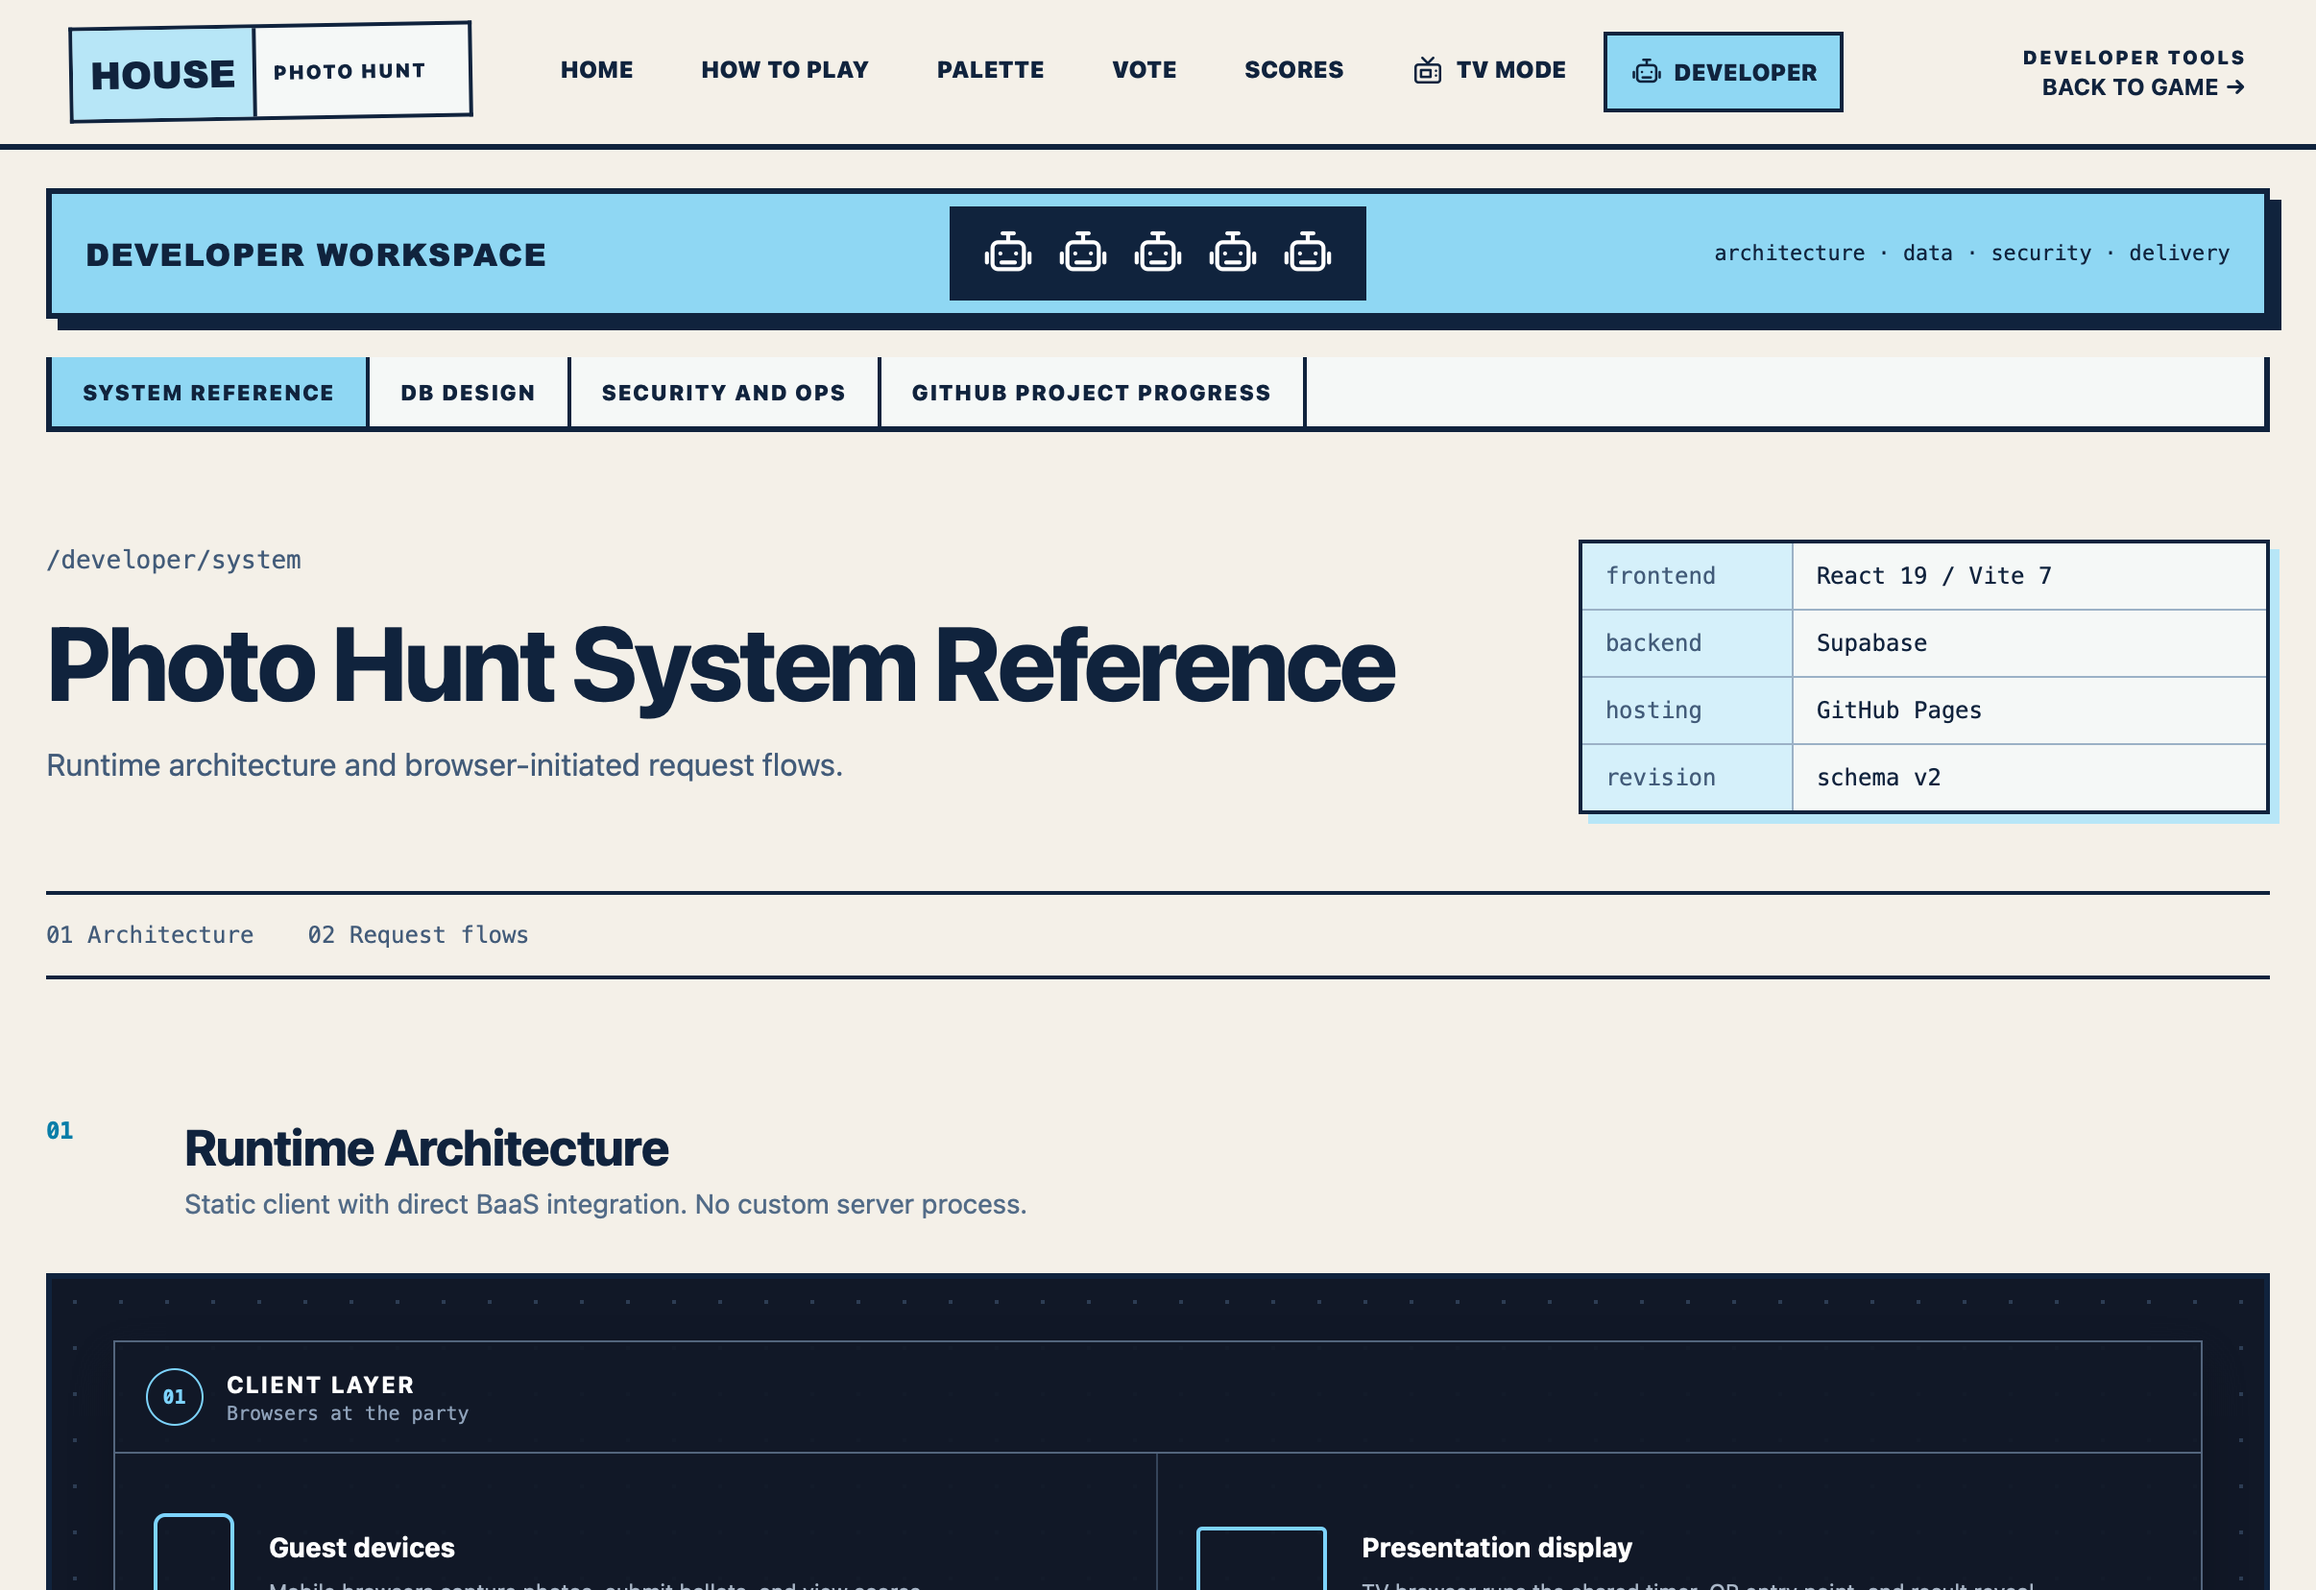
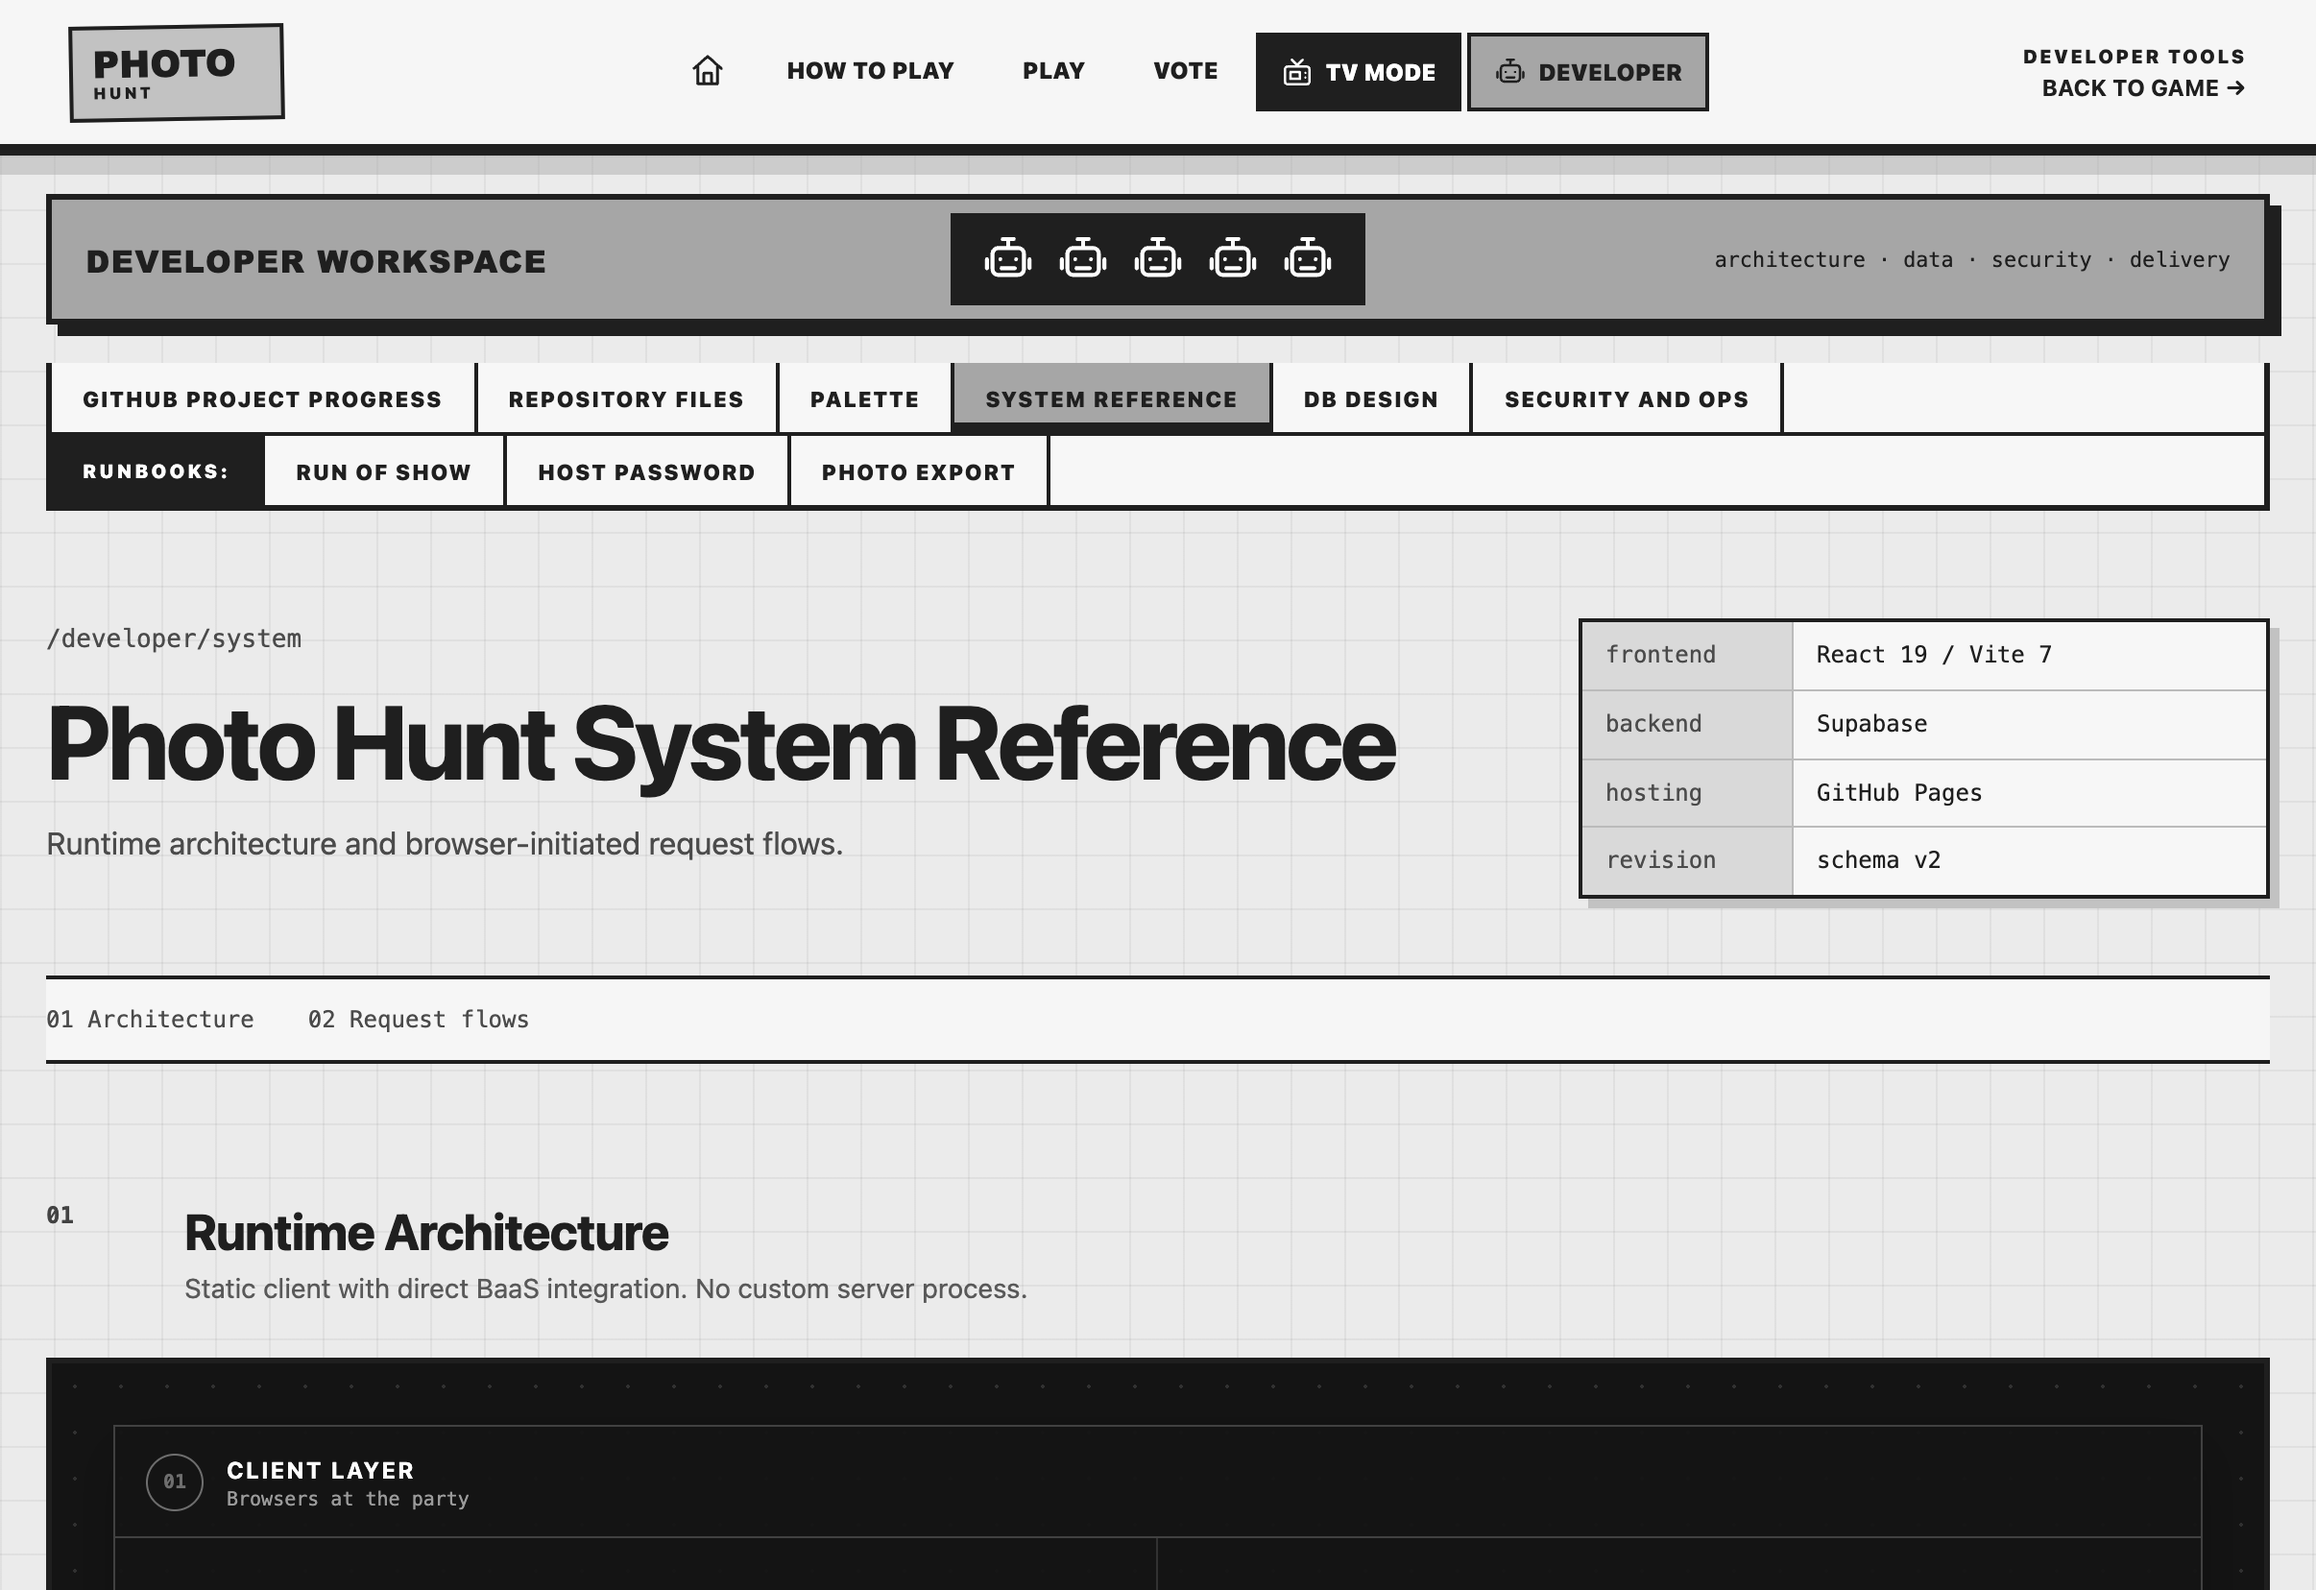
docs(images): recapture the developer screenshots in the shared grey palette
The palette, system reference and GitHub progress screenshots still showed
the old blue developer pages with the HOUSE brand. Recaptured at the same
sizes from the current pages (PHOTO HUNT brand, grey shared palette, no
Settings in the nav). The four game screenshots and the app icon show the
house party, whose palette is unchanged, so they stay.

The capture plan now sends game captures to /house-party/ on a disposable
project via the per-app variables (the closed app has no shared fallback),
and documents a headless Chrome route for the developer captures.

diff --git a/SCREENSHOT_CAPTURE_PLAN.md b/SCREENSHOT_CAPTURE_PLAN.md
@@ -37,14 +37,18 @@ Use the existing development server when it is already running. Otherwise:
 npm run dev -- --host 127.0.0.1
 ```
 
-For views that require submissions, configure the local app against a disposable Supabase project with synthetic data. If a safe demo session is already open in cmux, it can be used without creating new records.
+For views that require submissions, configure the local app against a disposable Supabase project with synthetic data.
+
+The four game captures (challenges, voting, TV mode, leaderboard) show the house party's blue palette, so capture them at `/house-party/`. The house party is closed (`open: false` in `src/config/apps.ts`), and a closed app never uses the shared `VITE_SUPABASE_*` pair, so point it at the disposable project with `VITE_SUPABASE_URL_HOUSE_PARTY` and `VITE_SUPABASE_PUBLISHABLE_KEY_HOUSE_PARTY` in `.env.local`. Never capture game views from `/bday-hunt/`, which runs against the live birthday project.
+
+The three developer captures need no data and render in the neutral grey palette shared by every page outside an app. If a safe demo session is already open in cmux, it can be used without creating new records.
 
 ## Open A Browser Surface
 
 Open the guest home route in a dedicated browser surface:
 
 ```bash
-cmux browser open "http://127.0.0.1:5173/play/" --focus false
+cmux browser open "http://127.0.0.1:5173/house-party/" --focus false
 ```
 
 The command returns a dynamic surface reference such as `surface:19`. Use that value for subsequent commands and confirm the loaded page:
@@ -79,7 +83,7 @@ For TV mode, use a browser surface in a dedicated cmux window so the browser rec
 ```bash
 cmux new-window
 cmux --id-format both tree --all
-cmux new-surface --type browser --pane <pane-uuid> --window <window-uuid> --url "http://127.0.0.1:5173/play/" --focus true
+cmux new-surface --type browser --pane <pane-uuid> --window <window-uuid> --url "http://127.0.0.1:5173/house-party/" --focus true
 ```
 
 Target sizes are approximate. Verify that mobile media queries are active and that the TV layout remains on one screen.
@@ -205,6 +209,10 @@ cmux browser --surface <surface> screenshot --out "$(pwd)/docs/images/github-pri
 ```bash
 cmux browser --surface <surface> screenshot --out "$(pwd)/docs/images/developer-palette-desktop.png" --json
 ```
+
+## Headless Chrome Fallback
+
+The developer captures can be taken without cmux by driving headless Chrome over the DevTools protocol: launch it with `--headless=new --remote-debugging-port=<port> --hide-scrollbars` and a throwaway `--user-data-dir`, then call `Emulation.setDeviceMetricsOverride` (1440 x 900 at 1x for the palette; 1206 x 828 at 2x for the system reference and GitHub progress), `Page.navigate`, and `Page.captureScreenshot`. For GitHub progress, scroll `.progress-lists > section` into view and back off by the sticky header's height. Keep the script outside the repository.
 
 ## Playwright Fallback
 

diff --git a/README.md b/README.md
@@ -31,7 +31,7 @@ The frontend is React, TypeScript, and Vite on GitHub Pages. Supabase provides a
 
 ![Desktop developer system reference showing architecture documentation and navigation](docs/images/developer-system-desktop.png)
 
-![Desktop developer palette showing the House Photo Hunt color system](docs/images/developer-palette-desktop.png)
+![Desktop developer palette showing the shared colour registry and its three palettes](docs/images/developer-palette-desktop.png)
 
 ### GitHub project priorities
 
